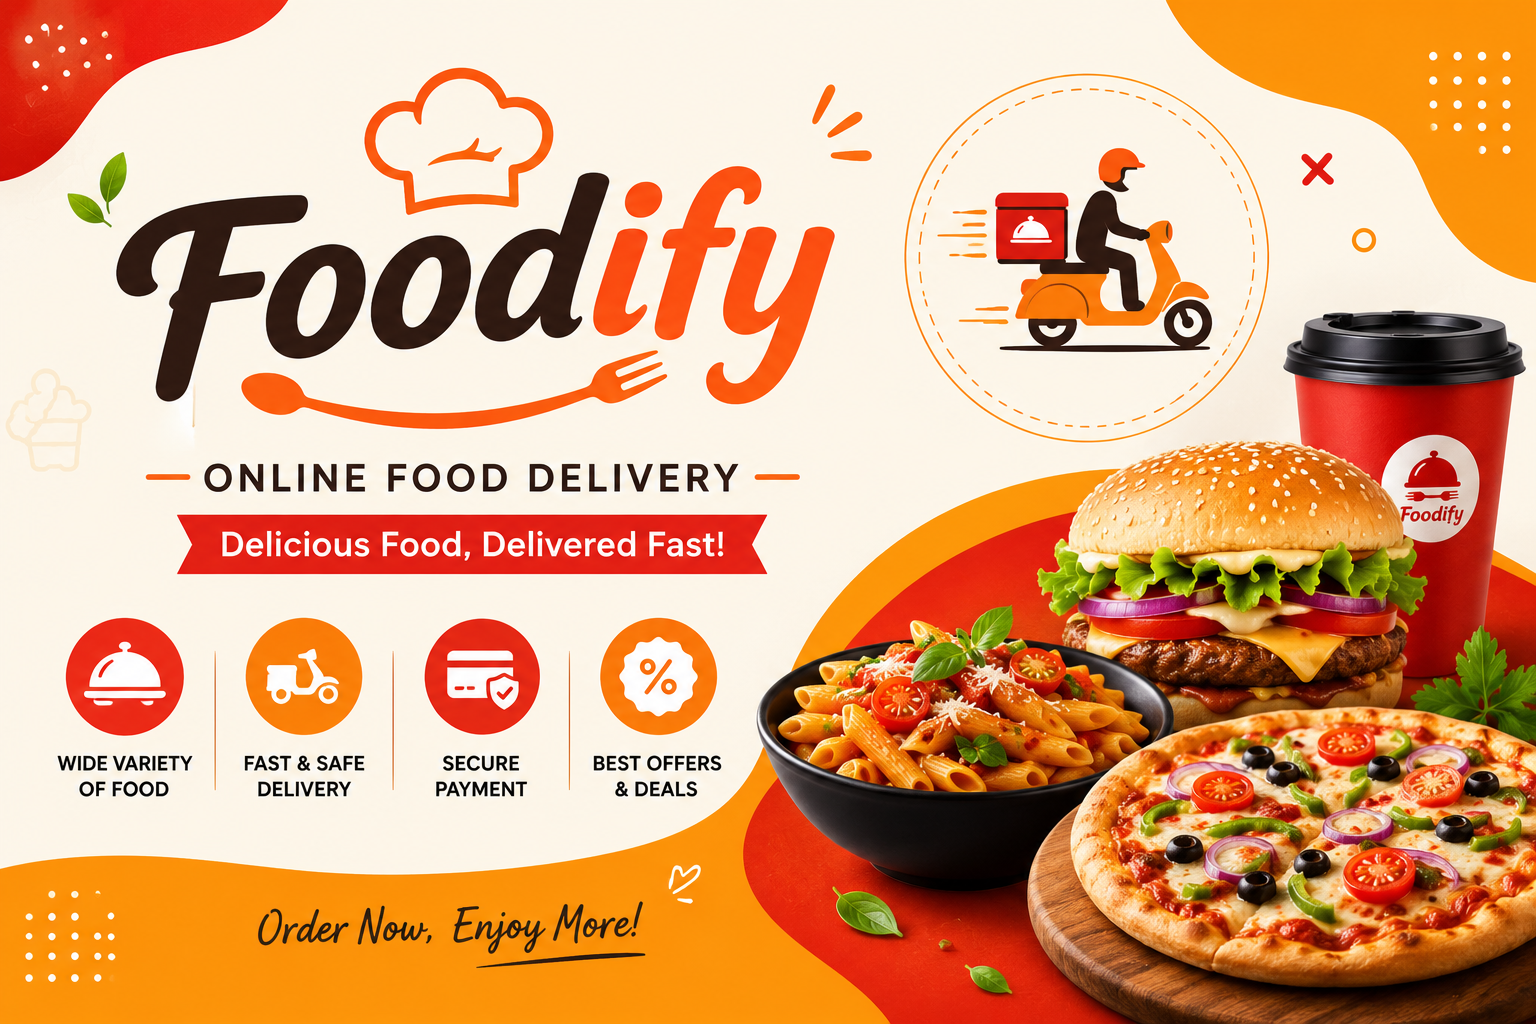
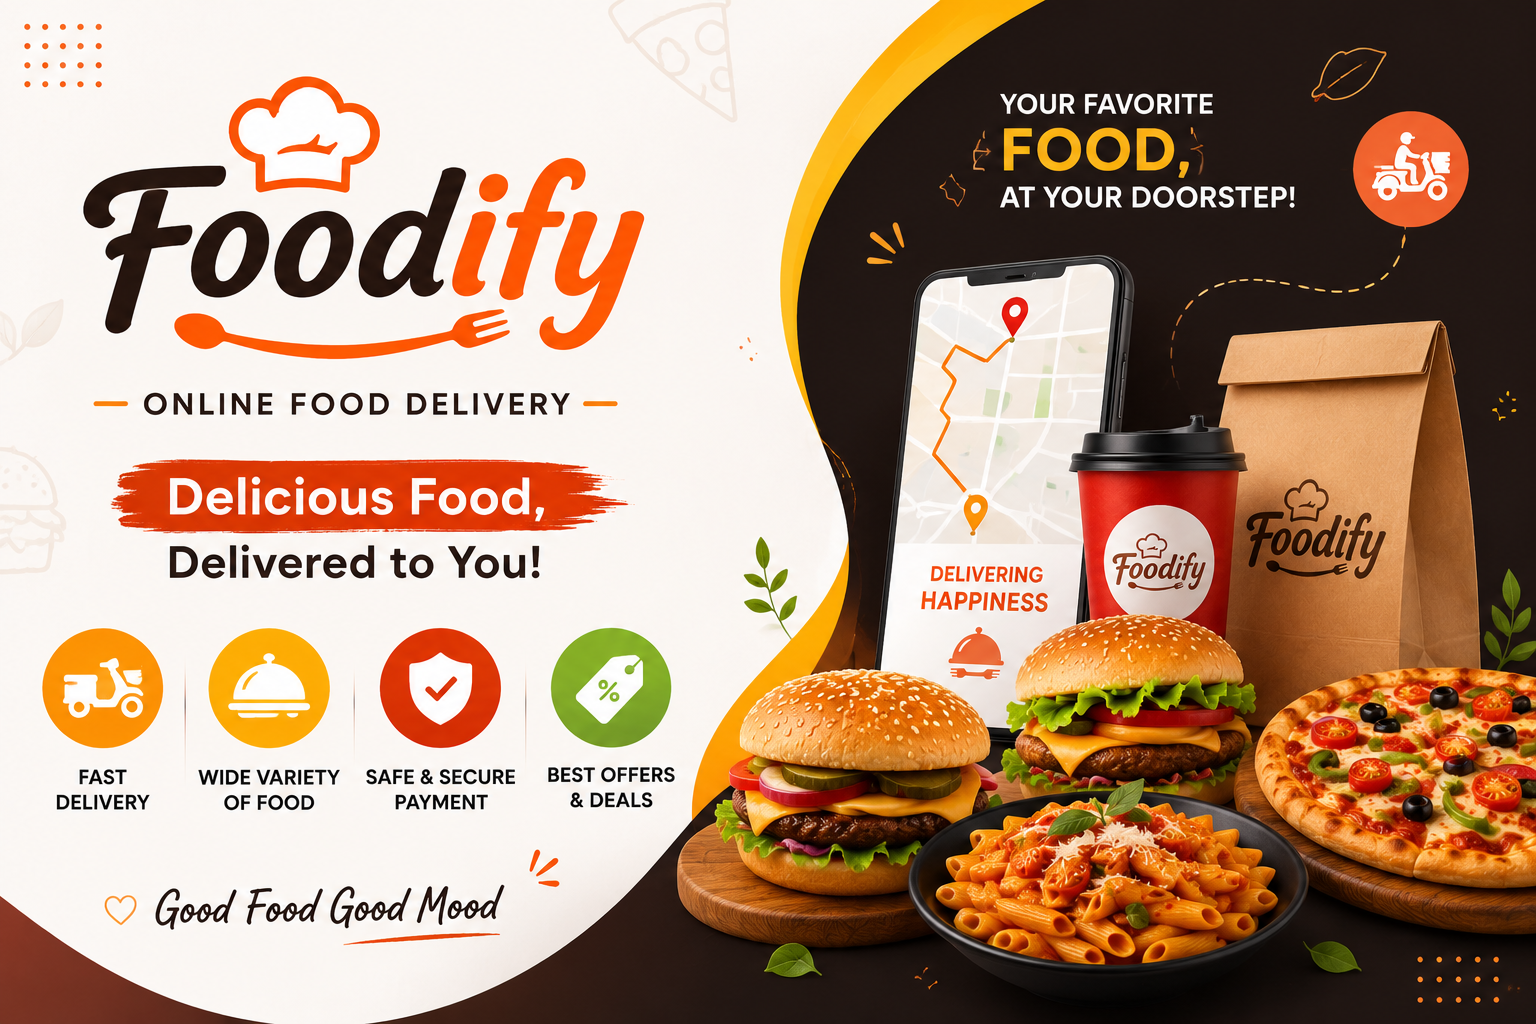
assets: update portfolio photos

diff --git a/style.css b/style.css
@@ -1226,10 +1226,10 @@ p {
 
 .btn-git-code,
 .btn-demo-video {
-    background-color: #16191C !important;
-    border: 1.5px solid #16191C !important;
+    background-color: #000000 !important;
+    border: 1.5px solid #000000 !important;
     color: #FFFFFF !important;
-    box-shadow: 0 4px 12px rgba(22, 25, 28, 0.15), 0 0 8px rgba(var(--color-accent-rgb), 0.15);
+    box-shadow: 0 4px 12px rgba(0, 0, 0, 0.1), 0 0 8px rgba(var(--color-accent-rgb), 0.05);
     transition: var(--theme-transition), transform 0.2s ease, box-shadow 0.2s ease;
 }
 